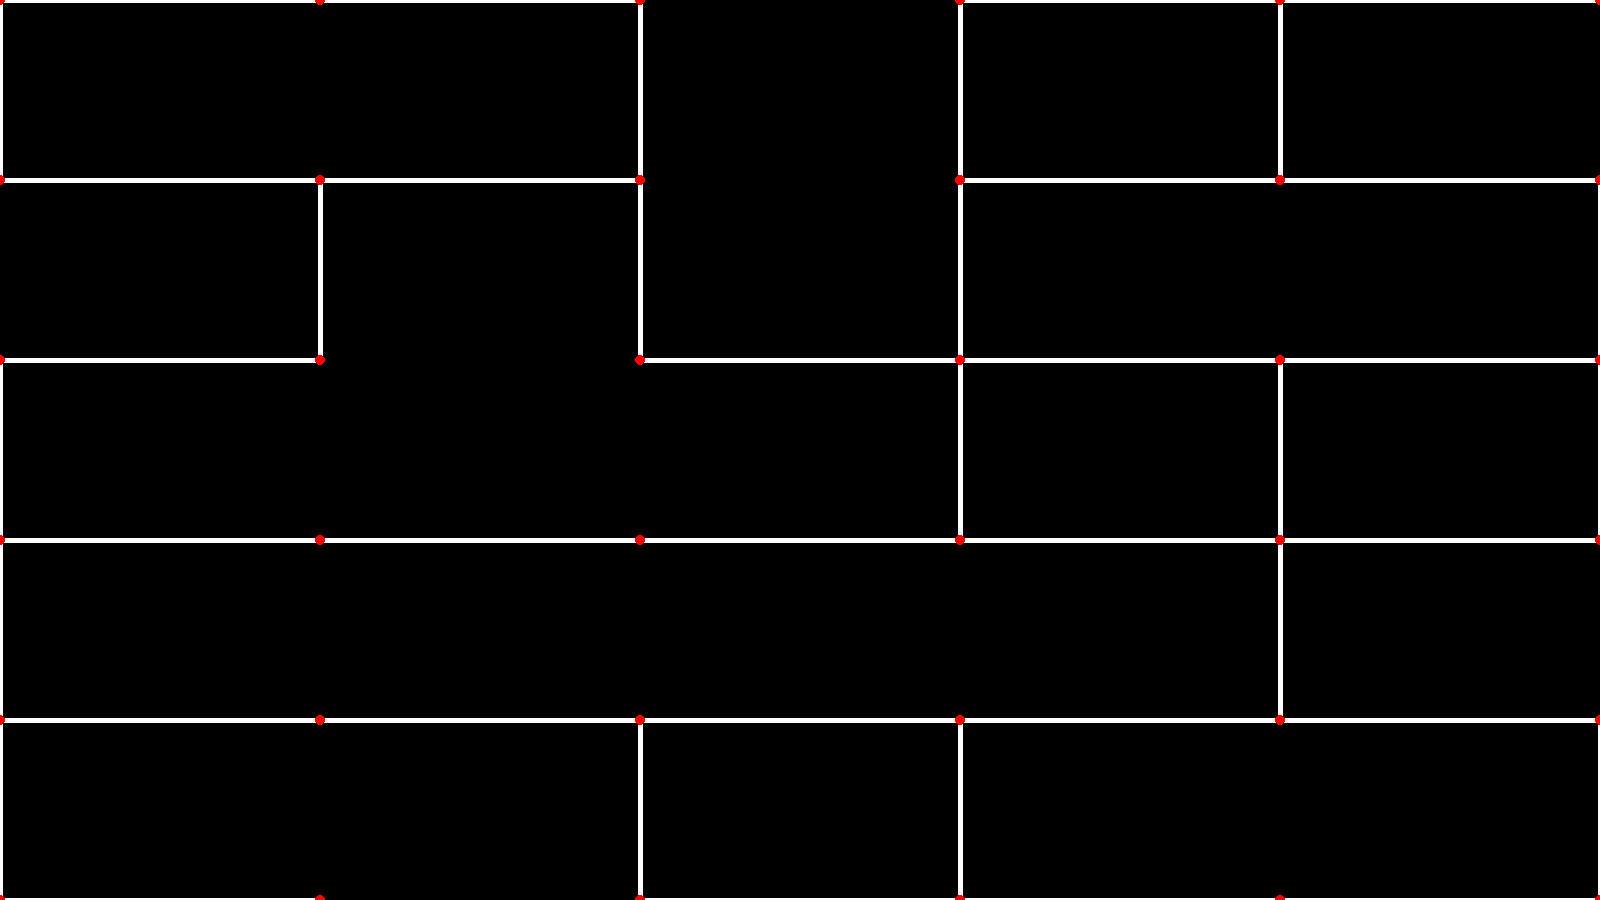
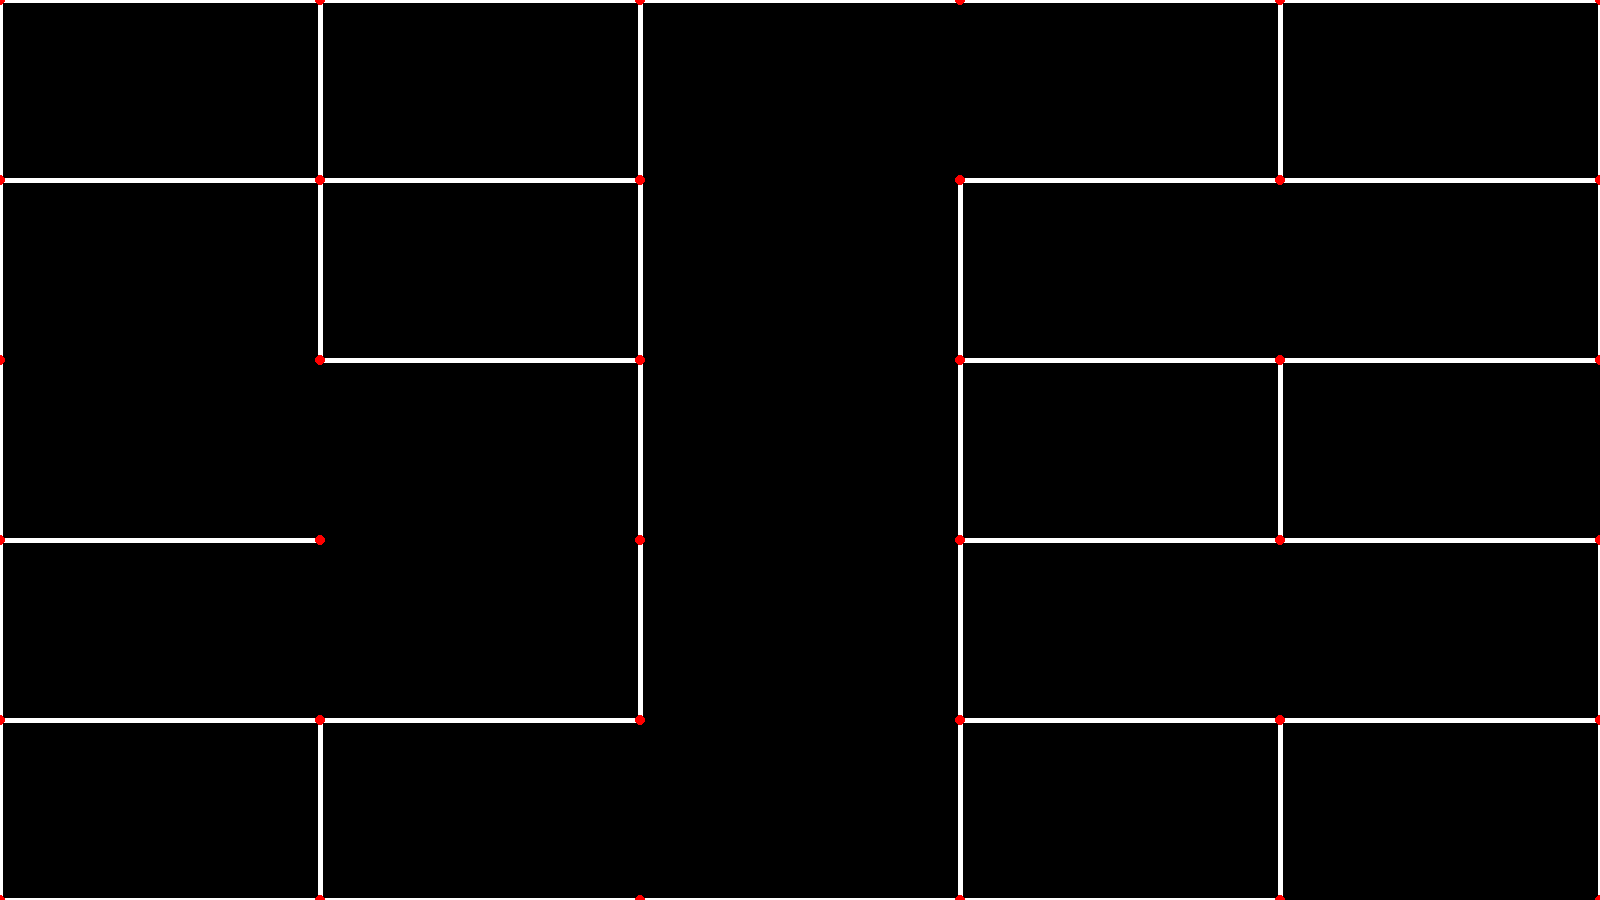
Add files via upload

diff --git a/rogue like/main.py b/rogue like/main.py
@@ -3,7 +3,7 @@ import pygame,math,random,map_maker,maze_vizualiser
 img_kresh = pygame.transform.scale(pygame.image.load('shrek.png'),(50,80))
 img_kresh.set_colorkey((255,255,255))
 
-xfen,yfen = 800,800
+xfen,yfen = 1600,900
 dimx,dimy = 6,6
 multix,multiy = xfen/dimx , yfen/dimy
 
@@ -11,48 +11,97 @@ maze = maze_vizualiser.show(dimx,dimy)
 
 pygame.init()
 
-fen = pygame.display.set_mode((xfen,yfen))
+fen = pygame.display.set_mode((xfen,yfen),pygame.FULLSCREEN)
 
 class Joueur:
     def __init__(self):
-        self.speed = 5
+        self.speed = 8
         self.x = xfen/2 - img_kresh.get_width()/2
         self.y = yfen/2 - img_kresh.get_height()/2
+        self.dx,self.dy = 0,0
 
     def move(self):
+        global loc
         keys = pygame.key.get_pressed()
 
-        if not (keys[pygame.K_z] and keys[pygame.K_d] and keys[pygame.K_s] and keys[pygame.K_q]):
+        if not (keys[pygame.K_z] and keys[pygame.K_d] and keys[pygame.K_s] and keys[pygame.K_q]): #presse toutes les touches = pas bouger
 
-            if keys[pygame.K_z] and keys[pygame.K_d]:
-                self.x += self.speed *  math.sqrt(2) / 2
-                self.y -= self.speed * math.sqrt(2) / 2
+            if sum(keys[i] for i in [pygame.K_q, pygame.K_d, pygame.K_z, pygame.K_s]) == 1: #presse que une touche parmi zqsd
 
-            elif keys[pygame.K_z] and keys[pygame.K_q]:
-                self.x -= self.speed * math.sqrt(2) / 2
-                self.y -= self.speed * math.sqrt(2) / 2
+                if keys[pygame.K_z] and not keys[pygame.K_d] and not keys[pygame.K_s] and not keys[pygame.K_q]:
+                    self.y -= self.speed
+                    self.dy = -self.speed
+                    self.dx = 0
 
-            elif keys[pygame.K_s] and keys[pygame.K_d]:
-                self.x += self.speed * math.sqrt(2) / 2
-                self.y += self.speed * math.sqrt(2) / 2
+                elif not keys[pygame.K_z] and keys[pygame.K_d] and not keys[pygame.K_s] and not keys[pygame.K_q]:
+                    self.x += self.speed
+                    self.dx = self.speed
+                    self.dy = 0
 
-            elif keys[pygame.K_s] and keys[pygame.K_q]:
-                self.x -= self.speed * math.sqrt(2) / 2
-                self.y += self.speed * math.sqrt(2) / 2
+                elif not keys[pygame.K_z] and not keys[pygame.K_d] and keys[pygame.K_s] and not keys[pygame.K_q]:
+                    self.y += self.speed
+                    self.dy = self.speed
+                    self.dx = 0
 
-            if keys[pygame.K_z] and not keys[pygame.K_d] and not keys[pygame.K_s] and not keys[pygame.K_q]:
-                self.y -= self.speed
+                elif not keys[pygame.K_z] and not keys[pygame.K_d] and not keys[pygame.K_s] and keys[pygame.K_q]:
+                    self.x -= self.speed
+                    self.dx = -self.speed
+                    self.dy = 0
 
-            elif not keys[pygame.K_z] and keys[pygame.K_d] and not keys[pygame.K_s] and not keys[pygame.K_q]:
-                self.x += self.speed
 
-            elif not keys[pygame.K_z] and not keys[pygame.K_d] and keys[pygame.K_s] and not keys[pygame.K_q]:
-                self.y += self.speed
+            else:
+                if keys[pygame.K_z] and keys[pygame.K_d]:
+                    self.x += self.speed * math.sqrt(2) / 2
+                    self.y -= self.speed * math.sqrt(2) / 2
+                    self.dx,self.dy = self.speed * math.sqrt(2) / 2 , -self.speed * math.sqrt(2) / 2
 
-            elif not keys[pygame.K_z] and not keys[pygame.K_d] and not keys[pygame.K_s] and keys[pygame.K_q]:
-                self.x -= self.speed
+                elif keys[pygame.K_z] and keys[pygame.K_q]:
+                    self.x -= self.speed * math.sqrt(2) / 2
+                    self.y -= self.speed * math.sqrt(2) / 2
+                    self.dx,self.dy = -self.speed * math.sqrt(2) / 2, -self.speed * math.sqrt(2) / 2
+
+                elif keys[pygame.K_s] and keys[pygame.K_d]:
+                    self.x += self.speed * math.sqrt(2) / 2
+                    self.y += self.speed * math.sqrt(2) / 2
+                    self.dx,self.dy = self.speed * math.sqrt(2) / 2, self.speed * math.sqrt(2) / 2
+
+
+                elif keys[pygame.K_s] and keys[pygame.K_q]:
+                    self.x -= self.speed * math.sqrt(2) / 2
+                    self.y += self.speed * math.sqrt(2) / 2
+                    self.dx,self.dy = -self.speed * math.sqrt(2) / 2,self.speed * math.sqrt(2) / 2
+
+            if self.x > xfen - 15 - img_kresh.get_width() and not (loc[0]+1,loc[1]) in maze[loc][0]:
+                self.x -= self.dx
+            elif self.x > xfen - img_kresh.get_width() and (loc[0]+1,loc[1]) in maze[loc][0]:
+                loc = (loc[0]+1,loc[1])
+                self.x = 20
+
+            if self.y > yfen - 15 - img_kresh.get_height() and not (loc[0],loc[1]+1) in maze[loc][0]:
+                self.y -= self.dy
+            elif self.y > yfen - img_kresh.get_height() and (loc[0],loc[1]+1) in maze[loc][0]:
+                loc = (loc[0],loc[1]+1)
+                self.y = 20
+
+            if self.y < 15  and not (loc[0],loc[1]-1) in maze[loc][0]:
+                self.y -= self.dy
+            elif self.y < 0 and (loc[0],loc[1]-1) in maze[loc][0]:
+                loc = (loc[0],loc[1]-1)
+                self.y = yfen - 20 - img_kresh.get_height()
+
+            if self.x < 15  and not (loc[0]-1,loc[1]) in maze[loc][0]:
+                self.x -= self.dx
+            elif self.x < 0 and (loc[0]-1,loc[1]) in maze[loc][0]:
+                loc = (loc[0]-1,loc[1])
+                self.x = xfen - 20 - img_kresh.get_width()
+
+
+
+
+
+
+
         fen.blit(img_kresh, (self.x,self.y))
-
 
 
 class Ennemy:
@@ -77,15 +126,13 @@ class Ennemy:
 
 
 
-spawn = None
+
 
 def spawner(maze):
-    global spawn
-
     spawn_x = random.randint(0,dimx-1)
     spawn_y = random.randint(0,dimy-1)
     if len(maze[(spawn_x,spawn_y)][0]) > 0:
-        spawn = (spawn_x,spawn_y)
+        return (spawn_x,spawn_y)
     else:
         spawner(maze)
 
@@ -116,10 +163,9 @@ def afficher_mur(maze,loc):
 
 kresh = Joueur()
 
-spawner(maze)
-
-loc = spawn
+spawn = spawner(maze)
 print(spawn)
+loc = spawn
 
 
 
